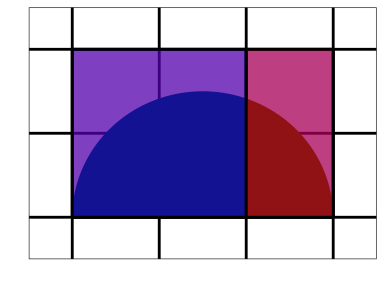
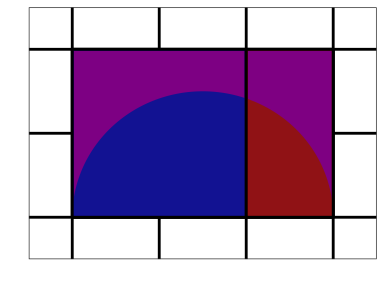
remove transparency on the base color layer

Changed region(s): [[0.1875, 0.1562, 0.875, 0.6562]]

diff --git a/README.md b/README.md
@@ -38,13 +38,13 @@ plt <-
   plt +
   geom_rect(mapping = aes(xmin = 0, xmax = 2, 
                           ymin = 0, ymax = 2),
-            alpha   = 0.5,
+            alpha   = 1,
             fill    = 'red',
             color   = 'black', 
             size    = 1) +
   geom_rect(mapping = aes(xmin = 2, xmax = 3, 
                           ymin = 0, ymax = 2),
-            alpha   = 0.5,
+            alpha   = 1,
             fill    = 'blue',
             color   = 'black', 
             size    = 1)
@@ -75,7 +75,7 @@ Overlay a transparent rectangle.
 ``` r
 plt <-
   plt +
-    geom_rect(mapping = aes(xmin = 0, xmax = 2, 
+  geom_rect(mapping = aes(xmin = 0, xmax = 2, 
                           ymin = 0, ymax = 2),
             alpha   = 0.5,
             fill    = 'blue',
